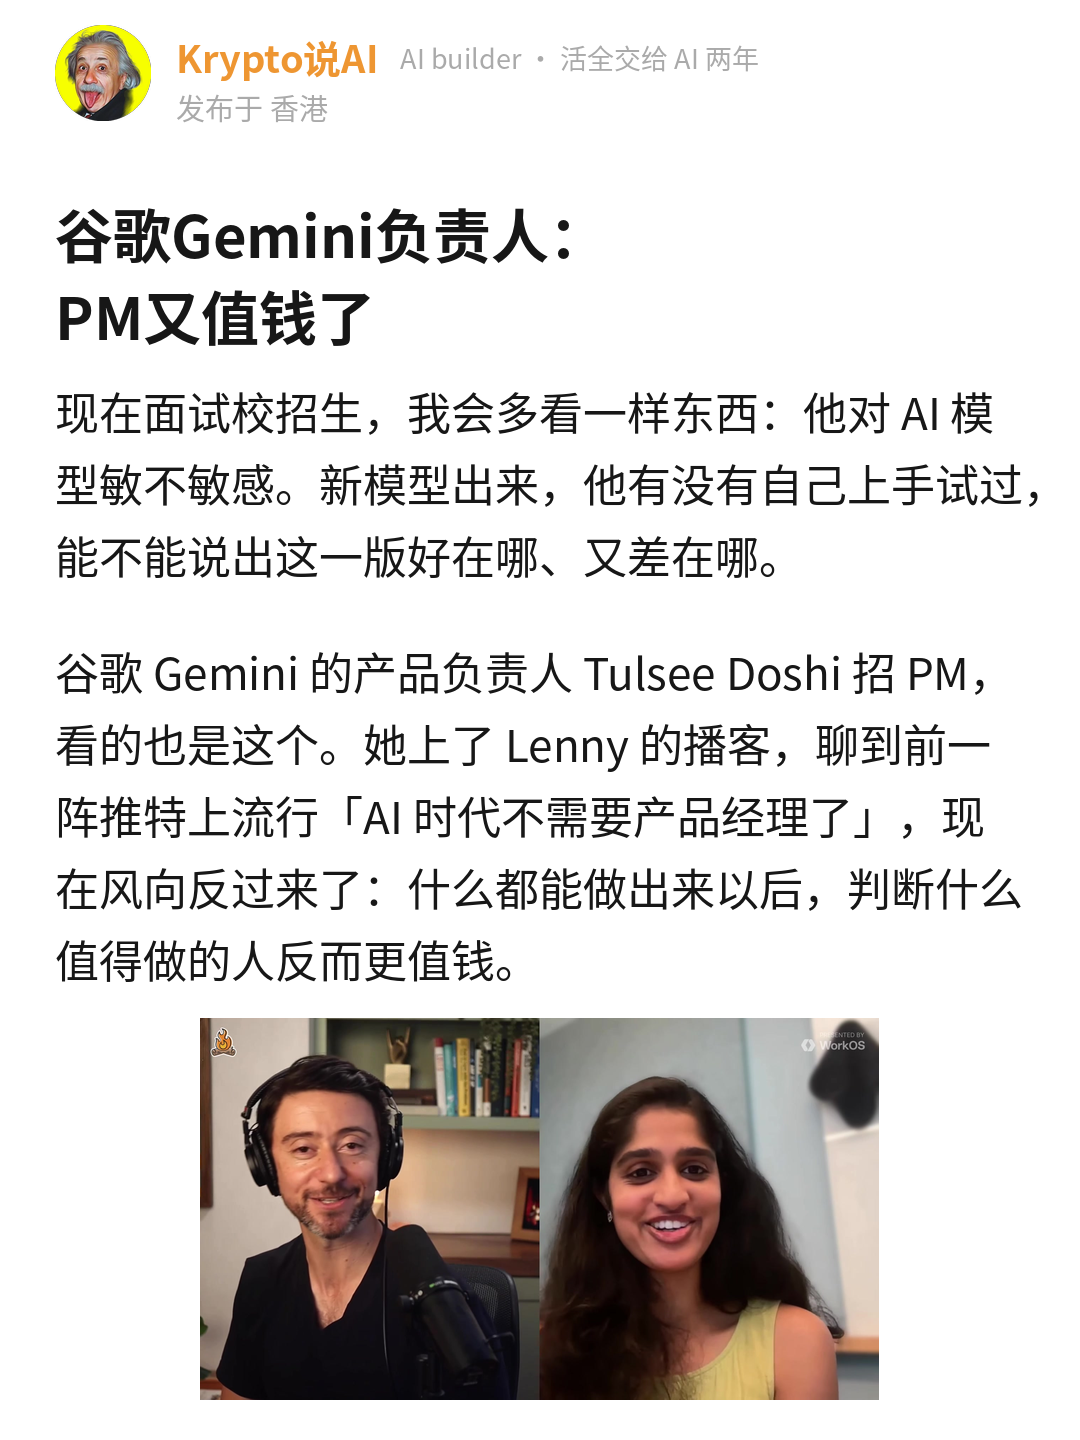
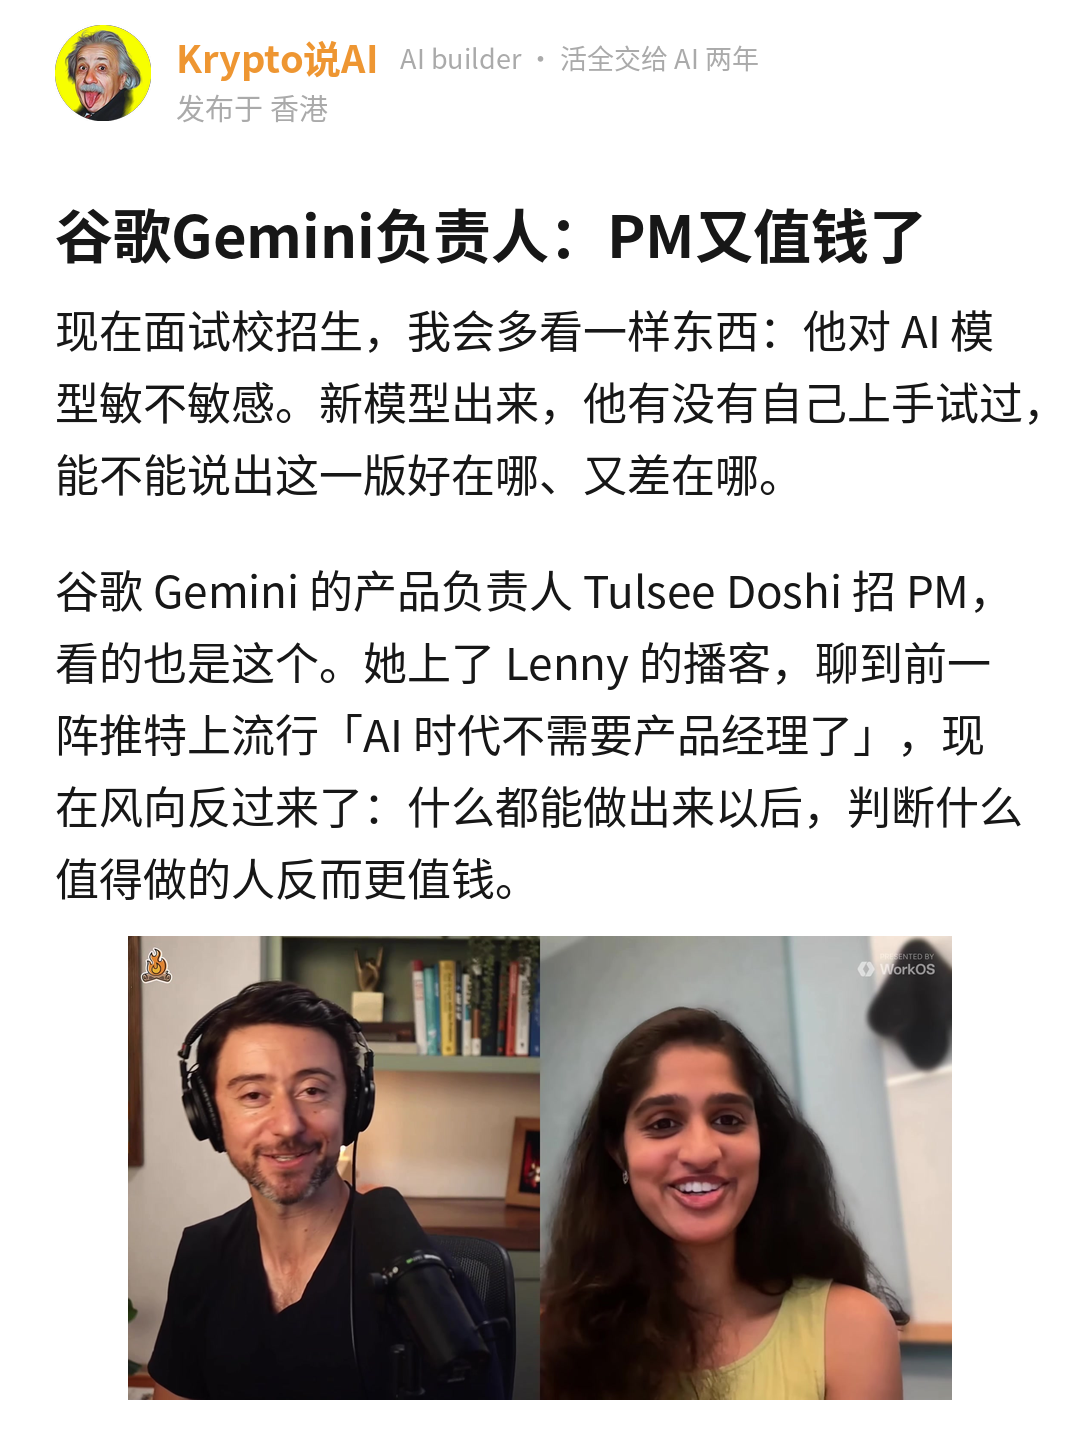
Tulsee 稿：首页 headline 改一行，发布标题改「产品经理」版
Claude-Session: https://claude.ai/code/session_01NaeRTa7TtKtusX2HgsFcAU

Changed region(s): [[0.0306, 0.1875, 0.9472, 1.0], [0.55, 0.125, 0.8556, 0.1875]]

diff --git a/CLAUDE.md b/CLAUDE.md
@@ -3,7 +3,7 @@
 这个仓库是小红书账号 **Krypto说AI** 的工作区，也是它的记忆。在这里做的每一篇稿子，先读本页，再读 `账号/档案.md`、`账号/经历库.md` 和 `账号/爆文方法论.md`（10-14 起，选题 / 标题 / 首图 / 原文跟发的发前清单，交付时逐条写过没过）。每次用户说了新的经历、新的观点、新的规则，写回这两份文件并更新本页摘要，不要只留在对话里。
 
 ## 摘要
-- **11-09 Tulsee Doshi × Lenny 播客稿（meme-v2，retell，value 信息 + 框架，立场 A 默认，`发布/2026-11-09_tulsee-doshi-gemini-pm/meme-v2版/`，12 页 + 名片卡，待用户看）**：素材是用户发来的 Lenny's Podcast 转录（谷歌 Gemini / 前沿模型产品负责人 Tulsee Doshi，《Why PMs are suddenly valuable again》）+ 20 张截帧。先问只答了两条：① 「会看校招生的ai模型的敏感度，saytype我也做了」② 价值选信息和框架；②⑤⑥ 没答，立场默认 A、cost 无。门票用身份「谷歌Gemini负责人」，题材是 PM / 找工作怎么办。起法是自己工作里正在发生的事（面校招生看模型敏感度），对上她招 PM 先看「每天玩不玩模型」；四个分条：招人看什么（+ 我的面试题换过一轮，经历库 #26）/ 第一个评测从 5 条提示词开始（Lenny 自己承认新模型来了不知道试什么）/ 60-20-20 + Boris Cherny 隔一阵删 skills / 先问 AI 能不能替我做 + 她最爱 Wispr Flow（手腕伤）对上我的 SayType（#23 #24，回指 10-17 稿）；收在「数据归模型、洞察归人」「X 是新的 PRD」→ 判断段 → 结尾问面试 PM 问全流程还是问新模型。图：`shots/05_5358` 同框 hero，自绘 `hire.png` `eval.png` `rule.png` `split.png`，`question.png`（沿用 11-04 面试题卡加「对新模型敏不敏感」），SayType 截图，四张单人 / 同框截帧，每页有图。check 0 ✗ 2 ⚠（数字 12 / 千字和开头 5 锚点是框架稿常态，留）。标题「谷歌Gemini负责人：PM又值钱了」，备选「谷歌招PM，先看你每天玩不玩模型」「强烈推荐谷歌Gemini负责人这期播客。」
+- **11-09 Tulsee Doshi × Lenny 播客稿（meme-v2，retell，value 信息 + 框架，立场 A 默认，`发布/2026-11-09_tulsee-doshi-gemini-pm/meme-v2版/`，12 页 + 名片卡，待用户看）**：素材是用户发来的 Lenny's Podcast 转录（谷歌 Gemini / 前沿模型产品负责人 Tulsee Doshi，《Why PMs are suddenly valuable again》）+ 20 张截帧。先问只答了两条：① 「会看校招生的ai模型的敏感度，saytype我也做了」② 价值选信息和框架；②⑤⑥ 没答，立场默认 A、cost 无。门票用身份「谷歌Gemini负责人」，题材是 PM / 找工作怎么办。起法是自己工作里正在发生的事（面校招生看模型敏感度），对上她招 PM 先看「每天玩不玩模型」；四个分条：招人看什么（+ 我的面试题换过一轮，经历库 #26）/ 第一个评测从 5 条提示词开始（Lenny 自己承认新模型来了不知道试什么）/ 60-20-20 + Boris Cherny 隔一阵删 skills / 先问 AI 能不能替我做 + 她最爱 Wispr Flow（手腕伤）对上我的 SayType（#23 #24，回指 10-17 稿）；收在「数据归模型、洞察归人」「X 是新的 PRD」→ 判断段 → 结尾问面试 PM 问全流程还是问新模型。图：`shots/05_5358` 同框 hero，自绘 `hire.png` `eval.png` `rule.png` `split.png`，`question.png`（沿用 11-04 面试题卡加「对新模型敏不敏感」），SayType 截图，四张单人 / 同框截帧，每页有图。check 0 ✗ 2 ⚠（数字 12 / 千字和开头 5 锚点是框架稿常态，留）。标题「谷歌Gemini负责人：产品经理又值钱了」（20 字，产品经理比 PM 好搜；首页 headline 用一行的「谷歌Gemini负责人：PM又值钱了」，「产品经理」版放首页会掉一个「了」到第二行），备选「谷歌招PM，先看你每天玩不玩模型」「强烈推荐谷歌Gemini负责人这期播客。」
 - **11-09 Ryo Lu 中文演讲稿（meme-v2，retell，value 框架，立场 A，`发布/2026-11-09_ryo-lu-talk/meme-v2版/`，12 页 + 名片卡，待用户看）**：素材是用户发来的转录 + 20 张截帧（Cursor 设计负责人 Ryo Lu《当我们什么都能做，还知道自己想做什么吗》，约 22 分钟，截帧只到 700 秒；会场日期未知）。先问走了，用户答：Claude 给的方案很完善、没认真想过合理性就落地会反噬自己；低复杂度直接交 AI 闭环落地，复杂的先走 Plan Mode 拆解、确认逻辑再执行（经历库 #41，观点库 #34）；他还是 Cursor 设计负责人。价值 / 立场 / 代价细节没答，默认框架 + A，cost 按原话不编具体哪次。起法是主角在台上的时刻（让 AI 做记录生活工具、两分钟交回四个功能、他差点说那好吧），跟上一篇（判断起法）不同。四点：完整答案盖住没形成的问题 → 先挑一样想去掉的 → 服务窗口和工作台（「我」的 Plan Mode 分流，`mine.png`）→ 工具在那里不代表一直要用（email、搬台北、小时候改电脑像 Mac）→ 判断 → 他的建议 → 问读者。每页一张图：截帧裁的 hero / 讲台 / 画布 / 服务窗口 vs 工作台 / Mac / 结尾两张，自绘 `quote.png` `pick.png` `table.png` `mine.png` `email.png`。check 0 ✗ 2 ⚠（开头锚点 5、「对」是对错的对）。标题「Cursor设计师：答案完整，不等于想过」（20 字），备选「强烈推荐Cursor设计负责人这场演讲。」「Cursor设计负责人：我是不是又落后了」
 - **11-08 对标 YouTube「How to Actually Get Your Shit Together Before 2027」（`对标/YouTube_GetYourShitTogether/`，用户发两段 mov，约 4 分钟，拆解 + 英文转录 + 截帧）**：自我提升 edit 类：第一人称旁白（一句答案开头「找出让一切更难的那一件事」、「生活在给你信息」一个比喻用到底、描述 vs 解释的翻转、睡眠→精力→工作→压力闭环、纸笔两个问题当行动）+ 全程电影 / 动画 / 颁奖礼片段混剪（约 2.4 秒一切）+ 逐词弹出的白色粗体动态字幕、黄色斜体关键句 + 红 / 黑 / 米白纯色卡 + 黑底手绘「五个框连到 Core Problem」。用户问能不能找到一模一样的素材做中文版：**没做**，素材全是版权影视片段、旁白是别人原创稿（逐句翻译 = 搬运，碰「只学结构」边界）、题材跟 AI 无关过不了门票；拆解第五节给了三种落法（A 同机制换 AI 题 + 复刻音色 + 代码画字幕 / 手绘图，推荐；B 纯动态排版；C 解说原片，不推荐），待用户选并答三个问题
 - **11-08 Addy Osmani《Your Coding Agents Made You a Manager》稿（meme-v2 第 15 篇，观察，value 信息 + 框架，立场 D，`发布/2026-11-08_addy-osmani-managing-agents/meme-v2版/`，8 页 + 名片卡，待用户看）**：素材是用户发来的 X 长文打包（Addy Osmani，Claude Code 团队，11-08，14.8 万浏览 3447 收藏；全文 + 封面 + 头像存 `编辑用/source.md`、`shots/`）。先问走了：用户要我先解释九条，答「每多一个 agent 多分走一份注意力，这几条我都非常认可」、价值信息 + 框架、第 ④ 问断在「agent 像」，其余「你定」。按 11-08 八条模板写：门票用身份「Claude 团队」（Addy 路人不认识）；起法是主角狼狈时刻（差点合并 600 行、测试全绿、全是用户用不上的复杂度），跟上一篇（自己工作里的事）不同；五个分条的点（自己能跑的验收 / 只说它看不到的 / 纠正第二次写下来 + 只锁死不能变的 / 交任务不交判断 / 编排税）；「我」三次：四五个窗口心里一紧 → 规则文件越写越长是替模型做了它能做的判断（#40）→ 并行丢念头（#39）+ 五个里只有两个有验收；stance 进观点库 #33（归 D）；cost = 并行丢念头。图 4 张：封面图当 hero（headline + 两段 + 图在第 1 页）、`rules.png`（请求 vs 强制）、`tax.png`（编排税示意柱图）、Addy 头像在结尾前。check 0 ✗ 6 ⚠（备选标题没带 Claude Code、开头锚点 8、电报分句 4.1、「看」收尾，都留）。标题「Claude团队：用AI的人，早就是经理」（19 字，keyword Claude），备选「Claude团队：测试全绿，照样不能合」「强烈推荐Claude团队这篇长文。」「看来很多人没看懂Claude团队这篇。」。正文.txt 领取物是睡前开长任务的五个问题。八条模板逐条：门票 ✓ 身份、题材 ✓ 带 agent 的人怎么办、标题 ✓ 身份 + 反差、前两行 ✓ 主角时刻、分条 ✓ 5 点、口吻 ✓ 😅 + 心里一紧、首页 ✓ headline + 两段 + 图 / 图 4 张自绘 2、结尾 ✓ 问读者带自己的答案。用户第 ④ 问（agent 像什么）没答完。**用户看初稿退两条（11-08）**：开头写得不好（人名 + 600 行起笔，路人不认识 Addy）；后面一页全是字，**每一页至少带一个原文素材或可视化**（第五次同样要求，`账号/爆文方法论.md` 第五节第 7 条和两个 SKILL 改回硬规则，上午的「每页有图撤」收回）。改：开头换成判断起法「用 Claude Code 干活的人，每天都在做一件经理的事……只是没人叫你经理」+ 第二段 Addy 身份和文章；600 行那一幕挪到第 4 点当例子；新加 `check.png`（没验收 vs 有验收流程）、`context.png`（别写 / 要写）、`judge.png`（交给 agent / 留给人）、`quote.png`（五个 agent 一次合并冲突原话卡）、`mine.png`（我的五个 agent 只有两个有验收）、第 2 页先放头像横裁、用户说「很突兀」→ 换成 `manage.png`（经理六件事 vs 带 agent 的你 对照表）；删类比不成立那段；12 页（11 页正文 + 名片卡）每页有图。改前存 `draft_v1_人名开头_纯文字页.md`。**用户定标题 / headline「Claude官方：人人都是经理」**（12 字），备选不变

diff --git a/发布/2026-11-09_tulsee-doshi-gemini-pm/meme-v2版/编辑用/draft.md b/发布/2026-11-09_tulsee-doshi-gemini-pm/meme-v2版/编辑用/draft.md
@@ -8,7 +8,7 @@ reader: 新模型一出来，打开对话框却不知道该拿它试什么的人
 cost: 无（用户这篇没答代价）
 keyword: 谷歌
 keywords: 谷歌, Gemini, 产品经理, PM, Lenny播客, AI评测, 面试
-headline: 谷歌Gemini负责人：|PM又值钱了
+headline: 谷歌Gemini负责人：PM又值钱了
 hero: shots/05_5358.jpg
 hero_after: 2
 location: 香港
